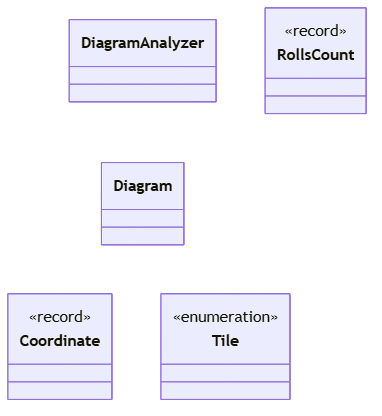
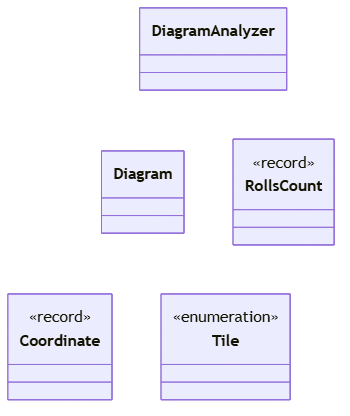
refactor day4

diff --git a/src/main/java/software/ulpgc/aoc/day04/model/Diagram.java b/src/main/java/software/ulpgc/aoc/day04/model/Diagram.java
@@ -7,8 +7,8 @@ import java.util.stream.IntStream;
 
 public class Diagram {
     private final Tile[][] grid;
-    private final int rows;
-    private final int cols;
+    private final int numRows;
+    private final int numColumns;
 
     public enum Direction {
         NORTH_WEST(-1, -1), NORTH(-1, 0), NORTH_EAST(-1, 1),
@@ -26,8 +26,8 @@ public class Diagram {
 
     private Diagram(Tile[][] grid) {
         this.grid = grid;
-        this.rows = grid.length;
-        this.cols = grid.length > 0 ? grid[0].length : 0;
+        this.numRows = grid.length;
+        this.numColumns = grid.length > 0 ? grid[0].length : 0;
     }
 
     public static Diagram create(Tile[][] tiles) {
@@ -44,24 +44,24 @@ public class Diagram {
 
     public boolean isInBounds(Coordinate coordinate) {
         return coordinate.row() >= 0
-                && coordinate.row() < rows
+                && coordinate.row() < numRows
                 && coordinate.col() >= 0
-                && coordinate.col() < cols;
+                && coordinate.col() < numColumns;
     }
 
     public List<Coordinate> coordinates() {
-        return IntStream.range(0, rows)
+        return IntStream.range(0, numRows)
                 .boxed()
-                .flatMap(r -> IntStream.range(0, cols).mapToObj(c -> new Coordinate(r, c)))
+                .flatMap(r -> IntStream.range(0, numColumns).mapToObj(c -> new Coordinate(r, c)))
                 .toList();
     }
 
     public int rows() {
-        return rows;
+        return numRows;
     }
 
     public int cols() {
-        return cols;
+        return numColumns;
     }
 
     public Diagram withClearedCoordinates(List<Coordinate> coordinates) {

diff --git a/UML diagrams/uml_day04.md b/UML diagrams/uml_day04.md
@@ -18,7 +18,8 @@ classDiagram
         <<record>>
     }
     DiagramAnalyzer --> Diagram
-Diagram --> Coordinate
+Diagram ..> Coordinate
+DiagramAnalyzer ..> RollsCount
 Diagram --> Tile
 
 ```